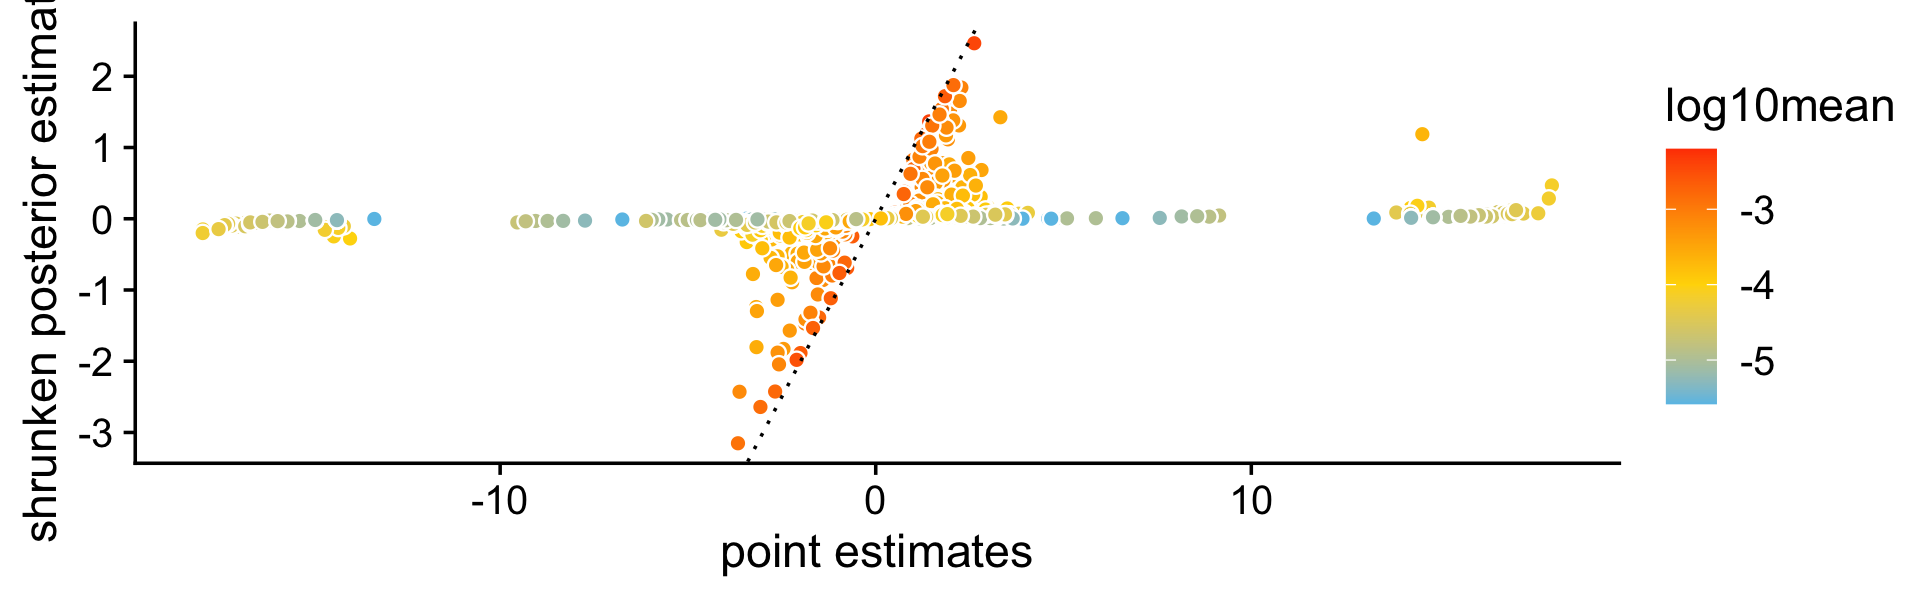
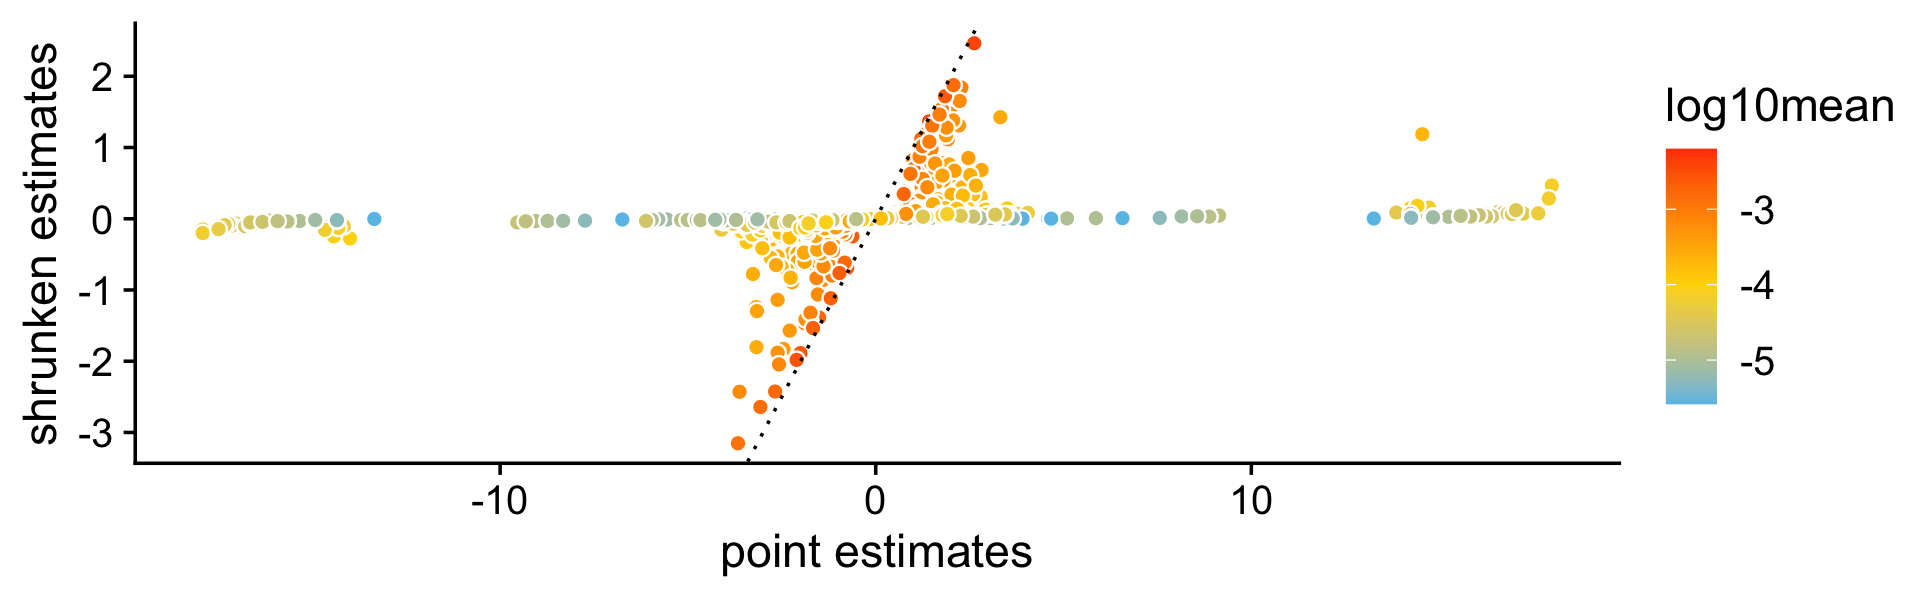
Fixed a bug in the power vs fdr plot in de_analysis_detailed_look.

Changed region(s): [[0.0, 0.0, 0.0312, 0.9]]

diff --git a/docs/de_analysis_detailed_look.html b/docs/de_analysis_detailed_look.html
@@ -426,16 +426,16 @@ fit-poisson-nmf
 <div class="panel panel-default">
 <div class="panel-heading">
 <p class="panel-title">
-<a data-toggle="collapse" data-parent="#workflowr-checks" href="#strongRepositoryversionstrongahrefhttpsgithubcomstephenslabsinglecelltopicstree5d5c6a6c0cbd79d51a68c626f6dabab1fa6ea1aftargetblank5d5c6a6a"> <span class="glyphicon glyphicon-ok text-success" aria-hidden="true"></span> <strong>Repository version:</strong> <a href="https://github.com/stephenslab/single-cell-topics/tree/5d5c6a6c0cbd79d51a68c626f6dabab1fa6ea1af" target="_blank">5d5c6a6</a> </a>
+<a data-toggle="collapse" data-parent="#workflowr-checks" href="#strongRepositoryversionstrongahrefhttpsgithubcomstephenslabsinglecelltopicstreecb60f4c9bd3d3929348dbe440fe2d8800f1ba2a6targetblankcb60f4ca"> <span class="glyphicon glyphicon-ok text-success" aria-hidden="true"></span> <strong>Repository version:</strong> <a href="https://github.com/stephenslab/single-cell-topics/tree/cb60f4c9bd3d3929348dbe440fe2d8800f1ba2a6" target="_blank">cb60f4c</a> </a>
 </p>
 </div>
[2 lines of base64/hex data omitted]
 <div class="panel-body">
 <p>
 Great! You are using Git for version control. Tracking code development and connecting the code version to the results is critical for reproducibility.
 </p>
 <p>
-The results in this page were generated with repository version <a href="https://github.com/stephenslab/single-cell-topics/tree/5d5c6a6c0cbd79d51a68c626f6dabab1fa6ea1af" target="_blank">5d5c6a6</a>. See the <em>Past versions</em> tab to see a history of the changes made to the R Markdown and HTML files.
+The results in this page were generated with repository version <a href="https://github.com/stephenslab/single-cell-topics/tree/cb60f4c9bd3d3929348dbe440fe2d8800f1ba2a6" target="_blank">cb60f4c</a>. See the <em>Past versions</em> tab to see a history of the changes made to the R Markdown and HTML files.
 </p>
 <p>
 Note that you need to be careful to ensure that all relevant files for the analysis have been committed to Git prior to generating the results (you can use <code>wflow_publish</code> or <code>wflow_git_commit</code>). workflowr only checks the R Markdown file, but you know if there are other scripts or data files that it depends on. Below is the status of the Git repository when the results were generated:
@@ -460,6 +460,9 @@ Ignored files:
 Untracked files:
     Untracked:  analysis/de_analysis_detailed_look_cache/
     Untracked:  plots/
+
+Unstaged changes:
+    Modified:   analysis/de_analysis_detailed_look_more.Rmd
 
 </code></pre>
 <p>
@@ -498,6 +501,40 @@ Message
 </tr>
 </thead>
 <tbody>
+<tr>
+<td>
+Rmd
+</td>
+<td>
+<a href="https://github.com/stephenslab/single-cell-topics/blob/cb60f4c9bd3d3929348dbe440fe2d8800f1ba2a6/analysis/de_analysis_detailed_look.Rmd" target="_blank">cb60f4c</a>
+</td>
+<td>
+Peter Carbonetto
+</td>
+<td>
+2021-10-14
+</td>
+<td>
+workflowr::wflow_publish(“de_analysis_detailed_look.Rmd”)
+</td>
+</tr>
+<tr>
+<td>
+html
+</td>
+<td>
+<a href="https://rawcdn.githack.com/stephenslab/single-cell-topics/3d62d9e57a5e422d2f42f9100c220bc6f5aedf46/docs/de_analysis_detailed_look.html" target="_blank">3d62d9e</a>
+</td>
+<td>
+Peter Carbonetto
+</td>
+<td>
+2021-10-14
+</td>
+<td>
+Revised plots and explanatory text in de_analysis_detailed_look.
+</td>
+</tr>
 <tr>
 <td>
 Rmd
@@ -1034,6 +1071,17 @@ Date
 <tbody>
 <tr>
 <td>
+<a href="https://github.com/stephenslab/single-cell-topics/blob/3d62d9e57a5e422d2f42f9100c220bc6f5aedf46/docs/figure/de_analysis_detailed_look.Rmd/shrink-vs-noshrink-scatterplot-1.png" target="_blank">3d62d9e</a>
+</td>
+<td>
+Peter Carbonetto
+</td>
+<td>
+2021-10-14
+</td>
+</tr>
+<tr>
+<td>
 <a href="https://github.com/stephenslab/single-cell-topics/blob/468f4d9fa4d881e4076c0ba5e16f47fde71ff731/docs/figure/de_analysis_detailed_look.Rmd/shrink-vs-noshrink-scatterplot-1.png" target="_blank">468f4d9</a>
 </td>
 <td>
@@ -1204,11 +1252,48 @@ p9 &lt;- ggplot(pdat,aes(x = est,y = shrink,fill = log10mean)) +
   scale_fill_gradient2(low = &quot;deepskyblue&quot;,mid = &quot;gold&quot;,high = &quot;orangered&quot;,
                        midpoint = -4) +
   labs(x = &quot;point estimates&quot;,
-       y = &quot;shrunken posterior estimates&quot;) +
+       y = &quot;shrunken estimates&quot;) +
   theme_cowplot()
 print(p9)</code></pre>
 <p><img src="figure/de_analysis_detailed_look.Rmd/point-vs-shrunken-scatterplot-1.png" width="960" style="display: block; margin: auto;" /></p>
-<p><em>Add text here.</em></p>
+<p>
+<button type="button" class="btn btn-default btn-xs btn-workflowr btn-workflowr-fig" data-toggle="collapse" data-target="#fig-point-vs-shrunken-scatterplot-1">
+Past versions of point-vs-shrunken-scatterplot-1.png
+</button>
+</p>
+<div id="fig-point-vs-shrunken-scatterplot-1" class="collapse">
+<div class="table-responsive">
+<table class="table table-condensed table-hover">
+<thead>
+<tr>
+<th>
+Version
+</th>
+<th>
+Author
+</th>
+<th>
+Date
+</th>
+</tr>
+</thead>
+<tbody>
+<tr>
+<td>
+<a href="https://github.com/stephenslab/single-cell-topics/blob/3d62d9e57a5e422d2f42f9100c220bc6f5aedf46/docs/figure/de_analysis_detailed_look.Rmd/point-vs-shrunken-scatterplot-1.png" target="_blank">3d62d9e</a>
+</td>
+<td>
+Peter Carbonetto
+</td>
+<td>
+2021-10-14
+</td>
+</tr>
+</tbody>
+</table>
+</div>
+</div>
+<p>To illustrate the impact of this on the DE analysis, consider the K-L divergence measure used in Dey, Hsiao &amp; Stephens (2017) to rank genes, which doesn’t fully account for uncertainty in the LFCs. As a result, sometimes genes with very large LFCs get highly ranked, but after a full accounting for uncertainty, they are no longer ranked highly.</p>
 <pre class="r"><code>i     &lt;- which(fit$F[,1] - fit$F[,2] &gt; -1e-8)
 D     &lt;- fastTopics:::min_kl_poisson(fit$F)
 pdat1 &lt;- data.frame(kl = pmin(D[,1],0.00025),de = factor(nonzero_lfc))
@@ -1254,6 +1339,17 @@ Date
 <tbody>
 <tr>
 <td>
+<a href="https://github.com/stephenslab/single-cell-topics/blob/3d62d9e57a5e422d2f42f9100c220bc6f5aedf46/docs/figure/de_analysis_detailed_look.Rmd/etc-1-1.png" target="_blank">3d62d9e</a>
+</td>
+<td>
+Peter Carbonetto
+</td>
+<td>
+2021-10-14
+</td>
+</tr>
+<tr>
+<td>
 <a href="https://github.com/stephenslab/single-cell-topics/blob/468f4d9fa4d881e4076c0ba5e16f47fde71ff731/docs/figure/de_analysis_detailed_look.Rmd/etc-1-1.png" target="_blank">468f4d9</a>
 </td>
 <td>
@@ -1267,10 +1363,10 @@ Peter Carbonetto
 </table>
 </div>
 </div>
-<p><em>Add text here.</em></p>
+<p>To drive home this point, suppose we used the KL-divergences and the <em>p</em>-values returned by <code>de_analysis(shrink.method = &quot;ash&quot;)</code> to discover differentially expressed genes. The power vs. FDR curves show that the rankings accounting for uncertainty in the LFC estimates (with or without shrinkage) perform better than the ranking based on the KL divergence measure.</p>
 <pre class="r"><code>pdat1 &lt;- create_fdr_vs_power_curve(-D[,1],nonzero_lfc)
-pdat2 &lt;- create_fdr_vs_power_curve(-de.noshrink$lpval,nonzero_lfc)
-pdat3 &lt;- create_fdr_vs_power_curve(-de$lpval,nonzero_lfc)
+pdat2 &lt;- create_fdr_vs_power_curve(-de.noshrink$lpval[,1],nonzero_lfc)
+pdat3 &lt;- create_fdr_vs_power_curve(-de$lpval[,1],nonzero_lfc)
 pdat  &lt;- rbind(cbind(pdat1,method = &quot;kl&quot;),
                cbind(pdat2,method = &quot;noshrink&quot;),
                cbind(pdat3,method = &quot;shrink&quot;))
@@ -1317,6 +1413,10 @@ Peter Carbonetto
 </table>
 </div>
 </div>
+</div>
+<div id="comparison-with-deseq2" class="section level2">
+<h2>Comparison with DESeq2</h2>
+<p><em>Add text and code here.</em></p>
 <br>
 <p>
 <button type="button" class="btn btn-default btn-workflowr btn-workflowr-sessioninfo" data-toggle="collapse" data-target="#workflowr-sessioninfo" style="display: block;">
